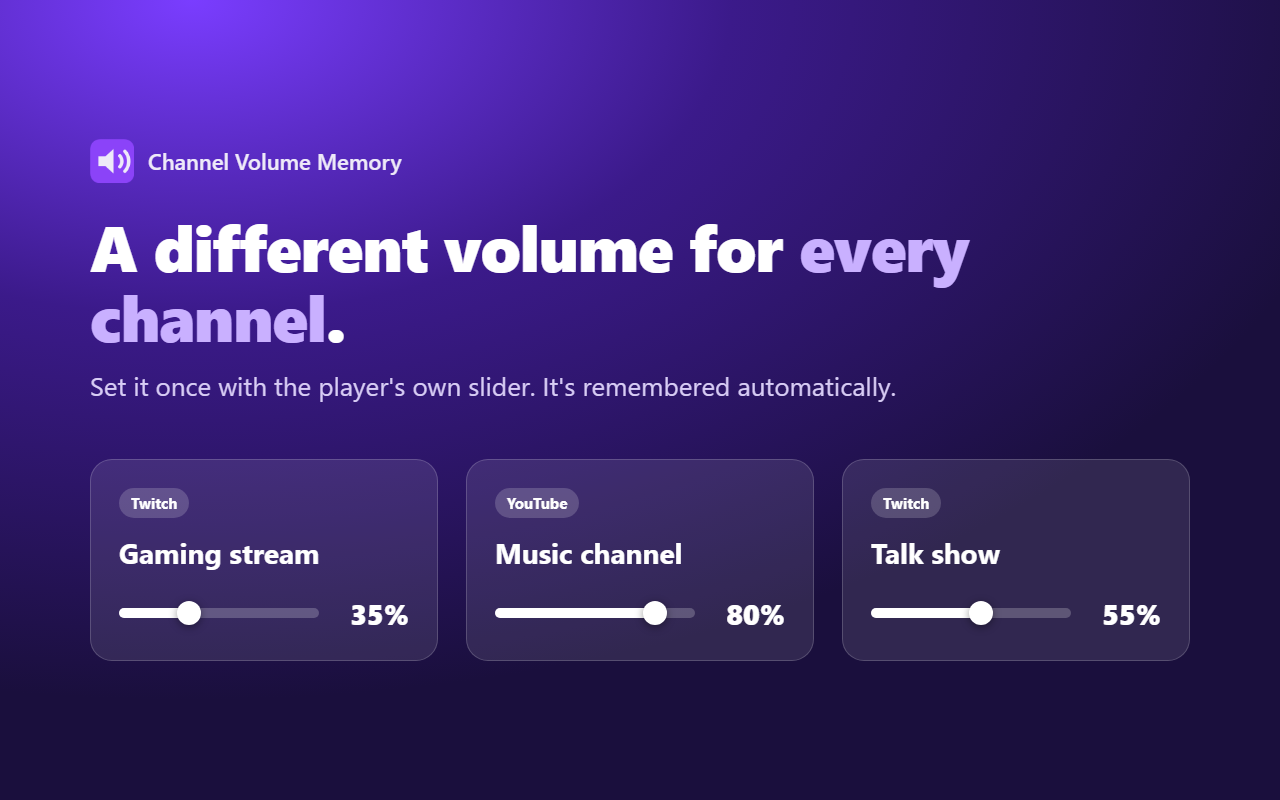
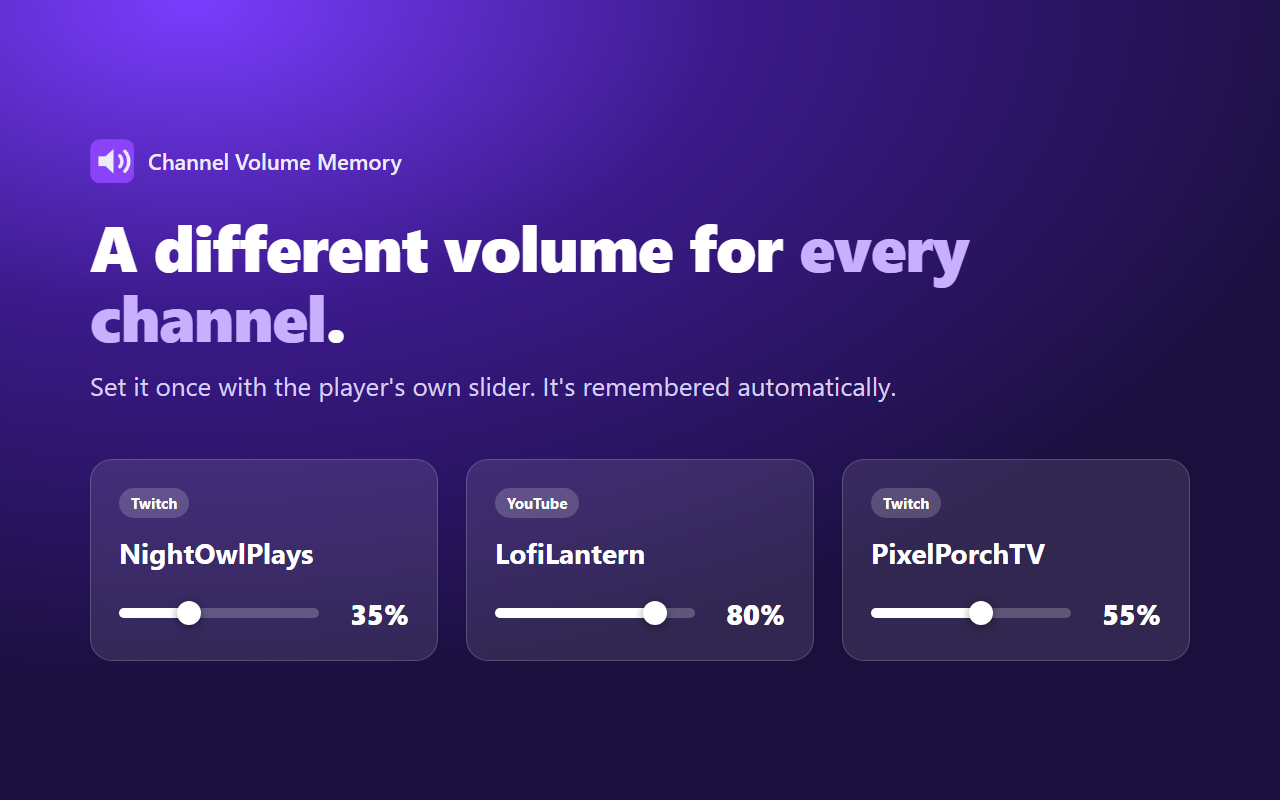
Use made-up channel names in screenshot 1

diff --git a/store/src/1.html b/store/src/1.html
@@ -3,10 +3,10 @@
 <h1>A different volume for <span>every channel</span>.</h1>
 <p class="sub">Set it once with the player's own slider. It's remembered automatically.</p>
 <div class="cards">
-  <div class="card"><span class="chip">Twitch</span><h3>Gaming stream</h3>
+  <div class="card"><span class="chip">Twitch</span><h3>NightOwlPlays</h3>
     <div class="slider"><div class="track"><div class="fill" style="width:35%"></div><div class="knob" style="left:35%"></div></div><div class="pct">35%</div></div></div>
-  <div class="card"><span class="chip">YouTube</span><h3>Music channel</h3>
+  <div class="card"><span class="chip">YouTube</span><h3>LofiLantern</h3>
     <div class="slider"><div class="track"><div class="fill" style="width:80%"></div><div class="knob" style="left:80%"></div></div><div class="pct">80%</div></div></div>
-  <div class="card"><span class="chip">Twitch</span><h3>Talk show</h3>
+  <div class="card"><span class="chip">Twitch</span><h3>PixelPorchTV</h3>
     <div class="slider"><div class="track"><div class="fill" style="width:55%"></div><div class="knob" style="left:55%"></div></div><div class="pct">55%</div></div></div>
 </div>
